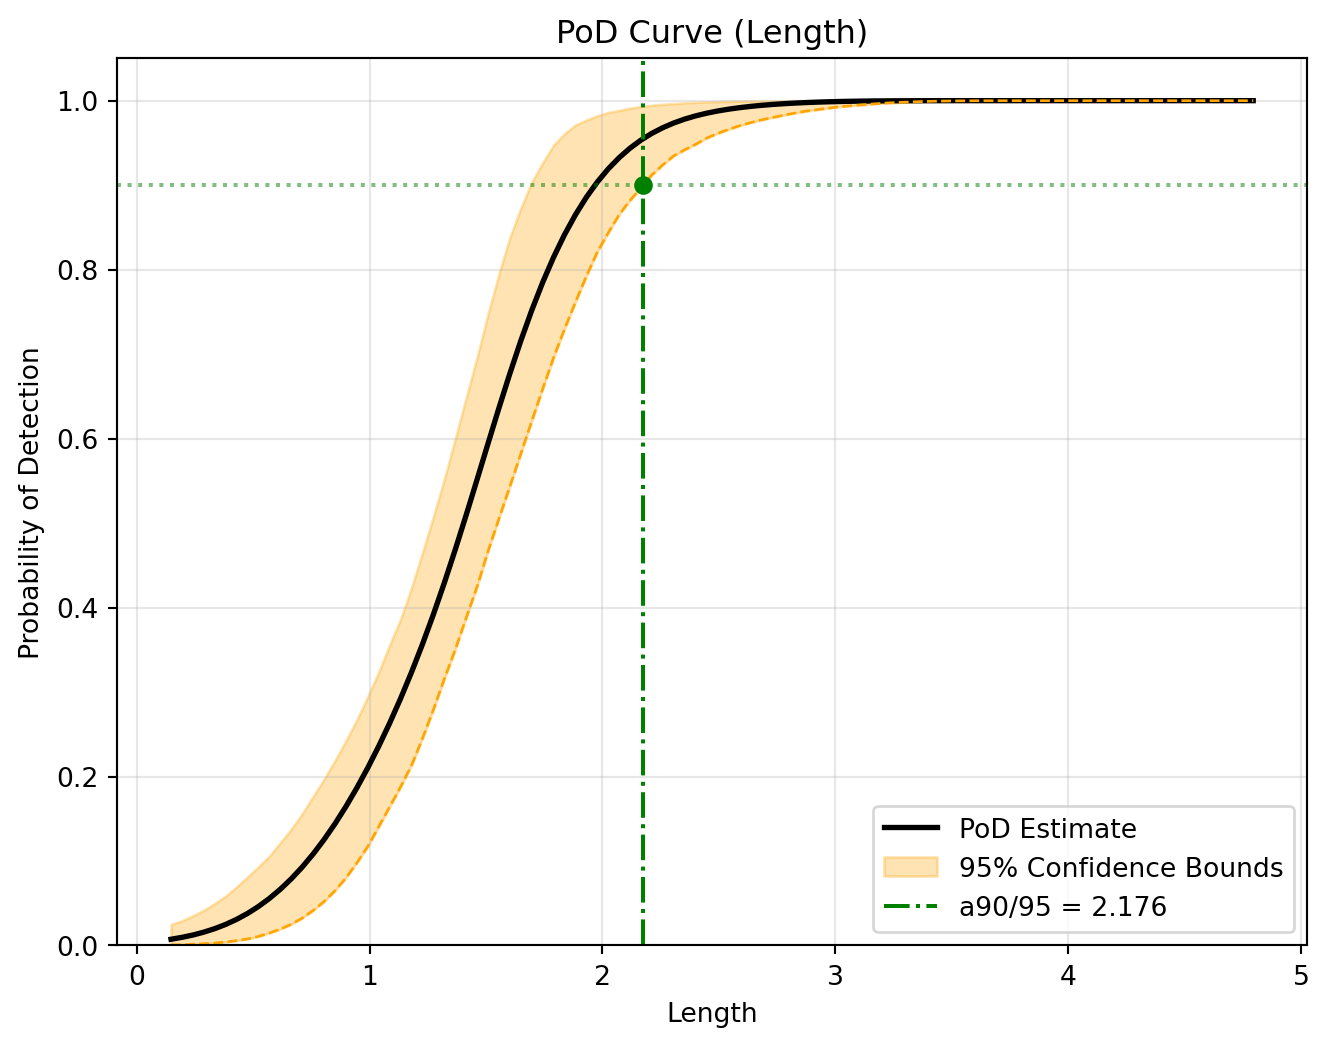
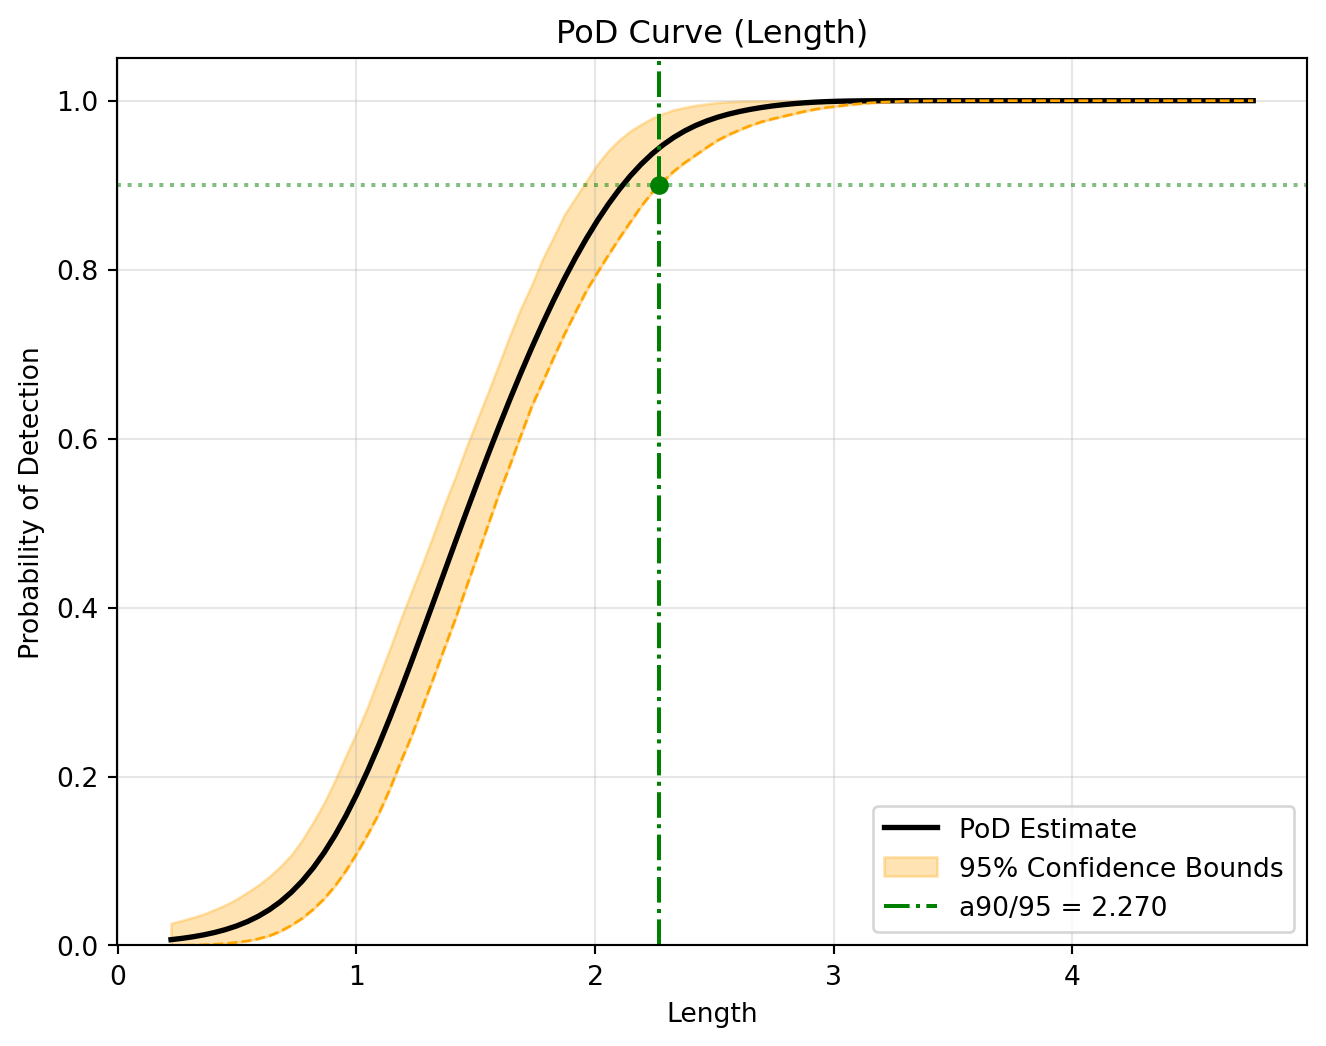
Built site for gh-pages

diff --git a/docs/qs_class.html b/docs/qs_class.html
@@ -246,7 +246,7 @@ pre > code.sourceCode > span > a:first-child::before { text-decoration: underlin
 <section id="setup-flawed-data-generation" class="level3">
 <h3 class="anchored" data-anchor-id="setup-flawed-data-generation">1. Setup &amp; “Flawed” Data Generation</h3>
 <p>First, we define our physics simulation and create a dataset with a deliberate gap (missing data between 3mm and 7mm).</p>
-<div id="446d0161" class="cell" data-execution_count="1">
+<div id="a0f2d1f6" class="cell" data-execution_count="1">
 <div class="code-copy-outer-scaffold"><div class="sourceCode cell-code" id="cb1"><pre class="sourceCode python code-with-copy"><code class="sourceCode python"><span id="cb1-1"><a href="#cb1-1" aria-hidden="true" tabindex="-1"></a><span class="im">import</span> numpy <span class="im">as</span> np</span>
 <span id="cb1-2"><a href="#cb1-2" aria-hidden="true" tabindex="-1"></a><span class="im">import</span> pandas <span class="im">as</span> pd</span>
 <span id="cb1-3"><a href="#cb1-3" aria-hidden="true" tabindex="-1"></a><span class="im">import</span> matplotlib.pyplot <span class="im">as</span> plt</span>
@@ -307,7 +307,7 @@ pre > code.sourceCode > span > a:first-child::before { text-decoration: underlin
 <section id="diagnosis-detecting-the-issue" class="level3">
 <h3 class="anchored" data-anchor-id="diagnosis-detecting-the-issue">2. Diagnosis (Detecting the Issue)</h3>
 <p>We now ask the study manager to diagnose the health of our experiment. We expect it to flag the Input Coverage test because of the gap we created.</p>
-<div id="63b5ea60" class="cell" data-execution_count="2">
+<div id="90391aa8" class="cell" data-execution_count="2">
 <div class="code-copy-outer-scaffold"><div class="sourceCode cell-code" id="cb3"><pre class="sourceCode python code-with-copy"><code class="sourceCode python"><span id="cb3-1"><a href="#cb3-1" aria-hidden="true" tabindex="-1"></a>study.diagnose()</span></code></pre></div><button title="Copy to Clipboard" class="code-copy-button"><i class="bi"></i></button></div>
 <div class="cell-output cell-output-stdout">
 <pre><code>Running validation...
@@ -335,7 +335,7 @@ Checking sample sufficiency...</code></pre>
 <td>Input Coverage</td>
 <td>Length</td>
 <td>Max Gap Ratio</td>
-<td>0.4272</td>
+<td>0.4300</td>
 <td>False</td>
 </tr>
 <tr class="even">
@@ -343,7 +343,7 @@ Checking sample sufficiency...</code></pre>
 <td>Input Coverage</td>
 <td>Angle</td>
 <td>Max Gap Ratio</td>
-<td>0.0549</td>
+<td>0.0493</td>
 <td>True</td>
 </tr>
 <tr class="odd">
@@ -351,7 +351,7 @@ Checking sample sufficiency...</code></pre>
 <td>Input Coverage</td>
 <td>Roughness</td>
 <td>Max Gap Ratio</td>
-<td>0.0719</td>
+<td>0.0824</td>
 <td>True</td>
 </tr>
 <tr class="even">
@@ -359,7 +359,7 @@ Checking sample sufficiency...</code></pre>
 <td>Model Fit (CV)</td>
 <td>Signal</td>
 <td>Mean R2 Score</td>
-<td>0.9982</td>
+<td>0.9986</td>
 <td>True</td>
 </tr>
 <tr class="odd">
@@ -367,7 +367,7 @@ Checking sample sufficiency...</code></pre>
 <td>Bootstrap Convergence</td>
 <td>Signal</td>
 <td>Relative CI Width</td>
-<td>0.0501</td>
+<td>0.0364</td>
 <td>True</td>
 </tr>
 </tbody>
@@ -380,7 +380,7 @@ Checking sample sufficiency...</code></pre>
 <section id="adaptive-refinement-the-fix" class="level3">
 <h3 class="anchored" data-anchor-id="adaptive-refinement-the-fix">3. Adaptive Refinement (The Fix)</h3>
 <p>Instead of manually guessing where to add points, we use refine(). The study manager automatically detects the gap and generates targeted samples to fill it. In this example, we run the <code>apply_physics()</code> function, but in reality, users should feed the new samples dataframe into their simulation engine to calculate the outcome variable. Users can then add those results into the SimulationStudy class using the <code>add_data()</code> method.</p>
-<div id="22dd5c30" class="cell" data-execution_count="3">
+<div id="08a6e385" class="cell" data-execution_count="3">
 <div class="code-copy-outer-scaffold"><div class="sourceCode cell-code" id="cb5"><pre class="sourceCode python code-with-copy"><code class="sourceCode python"><span id="cb5-1"><a href="#cb5-1" aria-hidden="true" tabindex="-1"></a><span class="co"># Generate active learning samples (20 points to fill the gap)</span></span>
 <span id="cb5-2"><a href="#cb5-2" aria-hidden="true" tabindex="-1"></a>new_samples <span class="op">=</span> study.refine(n_points<span class="op">=</span><span class="dv">20</span>)</span>
 <span id="cb5-3"><a href="#cb5-3" aria-hidden="true" tabindex="-1"></a></span>
@@ -397,7 +397,7 @@ Data updated. Total rows: 100</code></pre>
 </div>
 </div>
 <p>Now we verify that the issue is resolved:</p>
-<div id="7c8e4381" class="cell" data-execution_count="4">
+<div id="610f9854" class="cell" data-execution_count="4">
 <div class="code-copy-outer-scaffold"><div class="sourceCode cell-code" id="cb7"><pre class="sourceCode python code-with-copy"><code class="sourceCode python"><span id="cb7-1"><a href="#cb7-1" aria-hidden="true" tabindex="-1"></a><span class="co"># Re-run diagnostics to confirm the green light</span></span>
 <span id="cb7-2"><a href="#cb7-2" aria-hidden="true" tabindex="-1"></a>study.diagnose()</span></code></pre></div><button title="Copy to Clipboard" class="code-copy-button"><i class="bi"></i></button></div>
 <div class="cell-output cell-output-stdout">
@@ -426,7 +426,7 @@ Checking sample sufficiency...</code></pre>
 <td>Input Coverage</td>
 <td>Length</td>
 <td>Max Gap Ratio</td>
-<td>0.0353</td>
+<td>0.0385</td>
 <td>True</td>
 </tr>
 <tr class="even">
@@ -434,7 +434,7 @@ Checking sample sufficiency...</code></pre>
 <td>Input Coverage</td>
 <td>Angle</td>
 <td>Max Gap Ratio</td>
-<td>0.0549</td>
+<td>0.0440</td>
 <td>True</td>
 </tr>
 <tr class="odd">
@@ -442,7 +442,7 @@ Checking sample sufficiency...</code></pre>
 <td>Input Coverage</td>
 <td>Roughness</td>
 <td>Max Gap Ratio</td>
-<td>0.0719</td>
+<td>0.0439</td>
 <td>True</td>
 </tr>
 <tr class="even">
@@ -450,7 +450,7 @@ Checking sample sufficiency...</code></pre>
 <td>Model Fit (CV)</td>
 <td>Signal</td>
 <td>Mean R2 Score</td>
-<td>0.9970</td>
+<td>0.9980</td>
 <td>True</td>
 </tr>
 <tr class="odd">
@@ -458,7 +458,7 @@ Checking sample sufficiency...</code></pre>
 <td>Bootstrap Convergence</td>
 <td>Signal</td>
 <td>Relative CI Width</td>
-<td>0.0280</td>
+<td>0.0260</td>
 <td>True</td>
 </tr>
 </tbody>
@@ -480,12 +480,12 @@ Checking sample sufficiency...</code></pre>
 1. Selecting Mean Model (Cross-Validation)...
    -&gt; Selected Polynomial Degree: 2
 2. Fitting Variance Model (Kernel Smoothing)...
-   -&gt; Smoothing Bandwidth: 0.9832
+   -&gt; Smoothing Bandwidth: 0.9711
 3. Inferring Error Distribution (AIC)...
    -&gt; Selected Distribution: norm
 4. Computing PoD Curve...
 5. Running Bootstrap (1000 iterations)...
-   -&gt; a90/95 Reliability Index: 2.869
+   -&gt; a90/95 Reliability Index: 2.835
 --- Analysis Complete ---</code></pre>
 </div>
 </div>

diff --git a/docs/optimisation.html b/docs/optimisation.html
@@ -241,7 +241,7 @@ pre > code.sourceCode > span > a:first-child::before { text-decoration: underlin
 <section id="define-a-mock-solver" class="level3">
 <h3 class="anchored" data-anchor-id="define-a-mock-solver">1. Define a “Mock” Solver</h3>
 <p>For this tutorial, we will use a Python one-liner as our “solver”. In real life, this would be your <code>matlab</code>, <code>ansys</code>, or <code>abaqus</code> command.</p>
-<div id="2a478a30" class="cell" data-execution_count="1">
+<div id="e3842abf" class="cell" data-execution_count="1">
 <div class="code-copy-outer-scaffold"><div class="sourceCode cell-code" id="cb1"><pre class="sourceCode python code-with-copy"><code class="sourceCode python"><span id="cb1-1"><a href="#cb1-1" aria-hidden="true" tabindex="-1"></a><span class="im">import</span> sys</span>
 <span id="cb1-2"><a href="#cb1-2" aria-hidden="true" tabindex="-1"></a></span>
 <span id="cb1-3"><a href="#cb1-3" aria-hidden="true" tabindex="-1"></a><span class="co"># A simple physics model: Signal = 5 + Length * 2 + Noise</span></span>
@@ -258,7 +258,7 @@ pre > code.sourceCode > span > a:first-child::before { text-decoration: underlin
 <section id="configure-the-study" class="level3">
 <h3 class="anchored" data-anchor-id="configure-the-study">2. Configure the Study</h3>
 <p>We define our input variables and the tange we want to explore.</p>
-<div id="93c2ce9a" class="cell" data-execution_count="2">
+<div id="87fdb58d" class="cell" data-execution_count="2">
 <div class="code-copy-outer-scaffold"><div class="sourceCode cell-code" id="cb2"><pre class="sourceCode python code-with-copy"><code class="sourceCode python"><span id="cb2-1"><a href="#cb2-1" aria-hidden="true" tabindex="-1"></a><span class="im">from</span> digiqual.core <span class="im">import</span> SimulationStudy</span>
 <span id="cb2-2"><a href="#cb2-2" aria-hidden="true" tabindex="-1"></a></span>
 <span id="cb2-3"><a href="#cb2-3" aria-hidden="true" tabindex="-1"></a><span class="co"># Define inputs ranges</span></span>
@@ -277,7 +277,7 @@ pre > code.sourceCode > span > a:first-child::before { text-decoration: underlin
 <li><p>Checks diagnostics.</p></li>
 <li><p>If needed, generates 20 new points and repeats (up to 5 times).</p></li>
 </ol>
-<div id="e9836c82" class="cell" data-execution_count="3">
+<div id="ecf4bbf1" class="cell" data-execution_count="3">
 <div class="code-copy-outer-scaffold"><div class="sourceCode cell-code" id="cb3"><pre class="sourceCode python code-with-copy"><code class="sourceCode python"><span id="cb3-1"><a href="#cb3-1" aria-hidden="true" tabindex="-1"></a>study.optimise(</span>
 <span id="cb3-2"><a href="#cb3-2" aria-hidden="true" tabindex="-1"></a>    command<span class="op">=</span>SOLVER_CMD,</span>
 <span id="cb3-3"><a href="#cb3-3" aria-hidden="true" tabindex="-1"></a>    ranges<span class="op">=</span>ranges,</span>
@@ -334,7 +334,7 @@ Data updated. Total rows: 120</code></pre>
 <section id="view-results" class="level3">
 <h3 class="anchored" data-anchor-id="view-results">4. View Results</h3>
 <p>Once the loop finishes, <code>study.data</code> contains all the valid simulation results.</p>
-<div id="057ecec0" class="cell" data-execution_count="4">
+<div id="9c2ea8da" class="cell" data-execution_count="4">
 <div class="code-copy-outer-scaffold"><div class="sourceCode cell-code" id="cb5"><pre class="sourceCode python code-with-copy"><code class="sourceCode python"><span id="cb5-1"><a href="#cb5-1" aria-hidden="true" tabindex="-1"></a><span class="bu">print</span>(<span class="ss">f"Total Simulations Run: </span><span class="sc">{</span><span class="bu">len</span>(study.data)<span class="sc">}</span><span class="ss">"</span>)</span>
 <span id="cb5-2"><a href="#cb5-2" aria-hidden="true" tabindex="-1"></a>_ <span class="op">=</span> study.pod(poi_col<span class="op">=</span><span class="st">"Length"</span>, threshold<span class="op">=</span><span class="dv">8</span>)</span>
 <span id="cb5-3"><a href="#cb5-3" aria-hidden="true" tabindex="-1"></a>study.visualise()</span></code></pre></div><button title="Copy to Clipboard" class="code-copy-button"><i class="bi"></i></button></div>
@@ -344,27 +344,27 @@ Running validation...
 Validation passed. 120 valid rows ready.
 --- Starting Reliability Analysis (PoI: Length) ---
 1. Selecting Mean Model (Cross-Validation)...
-   -&gt; Selected Polynomial Degree: 2
+   -&gt; Selected Polynomial Degree: 1
 2. Fitting Variance Model (Kernel Smoothing)...
-   -&gt; Smoothing Bandwidth: 0.4647
+   -&gt; Smoothing Bandwidth: 0.4534
 3. Inferring Error Distribution (AIC)...
    -&gt; Selected Distribution: norm
 4. Computing PoD Curve...
 5. Running Bootstrap (1000 iterations)...
-   -&gt; a90/95 Reliability Index: 2.176
+   -&gt; a90/95 Reliability Index: 2.270
 --- Analysis Complete ---</code></pre>
 </div>
 <div class="cell-output cell-output-display">
 <div>
 <figure class="figure">
-<p><img src="optimisation_files/figure-html/cell-5-output-2.png" width="660" height="523" class="figure-img"></p>
+<p><img src="optimisation_files/figure-html/cell-5-output-2.png" width="659" height="523" class="figure-img"></p>
 </figure>
 </div>
 </div>
 <div class="cell-output cell-output-display">
 <div>
 <figure class="figure">
-<p><img src="optimisation_files/figure-html/cell-5-output-3.png" width="664" height="523" class="figure-img"></p>
+<p><img src="optimisation_files/figure-html/cell-5-output-3.png" width="663" height="523" class="figure-img"></p>
 </figure>
 </div>
 </div>

diff --git a/docs/install.html b/docs/install.html
@@ -224,20 +224,20 @@ pre > code.sourceCode > span > a:first-child::before { text-decoration: underlin
 <h2 class="anchored" data-anchor-id="option-1-install-via-uv-recommended">Option 1: Install via uv (Recommended)</h2>
 <p>If you are managing a project with <code>uv</code>, add <code>digiqual</code> as a dependency:</p>
 <ul>
-<li>To install the latest stable release (v0.10.0):</li>
+<li>To install the latest stable release (v0.10.1):</li>
 </ul>
-<div class="code-copy-outer-scaffold"><div class="sourceCode" id="cb1"><pre class="sourceCode bash code-with-copy"><code class="sourceCode bash"><span id="cb1-1"><a href="#cb1-1" aria-hidden="true" tabindex="-1"></a><span class="ex">uv</span> add <span class="st">"digiqual @ git+https://github.com/JGIBristol/digiqual.git@v0.10.0"</span></span></code></pre></div><button title="Copy to Clipboard" class="code-copy-button"><i class="bi"></i></button></div>
+<div class="code-copy-outer-scaffold"><div class="sourceCode" id="cb1"><pre class="sourceCode bash code-with-copy"><code class="sourceCode bash"><span id="cb1-1"><a href="#cb1-1" aria-hidden="true" tabindex="-1"></a><span class="ex">uv</span> add <span class="st">"digiqual @ git+https://github.com/JGIBristol/digiqual.git@v0.10.1"</span></span></code></pre></div><button title="Copy to Clipboard" class="code-copy-button"><i class="bi"></i></button></div>
 <ul>
 <li>To install the latest development version (main branch):</li>
 </ul>
 <div class="code-copy-outer-scaffold"><div class="sourceCode" id="cb2"><pre class="sourceCode bash code-with-copy"><code class="sourceCode bash"><span id="cb2-1"><a href="#cb2-1" aria-hidden="true" tabindex="-1"></a><span class="ex">uv</span> add <span class="st">"digiqual @ git+https://github.com/JGIBristol/digiqual.git"</span></span></code></pre></div><button title="Copy to Clipboard" class="code-copy-button"><i class="bi"></i></button></div>
 <p>If you just want to install it into a virtual environment without modifying a project file (e.g., for a quick script), use pip interface:</p>
-<div class="code-copy-outer-scaffold"><div class="sourceCode" id="cb3"><pre class="sourceCode bash code-with-copy"><code class="sourceCode bash"><span id="cb3-1"><a href="#cb3-1" aria-hidden="true" tabindex="-1"></a><span class="ex">uv</span> pip install <span class="st">"git+https://github.com/JGIBristol/digiqual.git@v0.10.0"</span></span></code></pre></div><button title="Copy to Clipboard" class="code-copy-button"><i class="bi"></i></button></div>
+<div class="code-copy-outer-scaffold"><div class="sourceCode" id="cb3"><pre class="sourceCode bash code-with-copy"><code class="sourceCode bash"><span id="cb3-1"><a href="#cb3-1" aria-hidden="true" tabindex="-1"></a><span class="ex">uv</span> pip install <span class="st">"git+https://github.com/JGIBristol/digiqual.git@v0.10.1"</span></span></code></pre></div><button title="Copy to Clipboard" class="code-copy-button"><i class="bi"></i></button></div>
 </section>
 <section id="option-2-install-via-standard-pip" class="level2">
 <h2 class="anchored" data-anchor-id="option-2-install-via-standard-pip">Option 2: Install via standard pip</h2>
-<p>To install the latest stable release (v0.10.0):</p>
-<div class="code-copy-outer-scaffold"><div class="sourceCode" id="cb4"><pre class="sourceCode bash code-with-copy"><code class="sourceCode bash"><span id="cb4-1"><a href="#cb4-1" aria-hidden="true" tabindex="-1"></a><span class="ex">pip</span> install <span class="st">"git+https://github.com/JGIBristol/digiqual.git@v0.10.0"</span></span></code></pre></div><button title="Copy to Clipboard" class="code-copy-button"><i class="bi"></i></button></div>
+<p>To install the latest stable release (v0.10.1):</p>
+<div class="code-copy-outer-scaffold"><div class="sourceCode" id="cb4"><pre class="sourceCode bash code-with-copy"><code class="sourceCode bash"><span id="cb4-1"><a href="#cb4-1" aria-hidden="true" tabindex="-1"></a><span class="ex">pip</span> install <span class="st">"git+https://github.com/JGIBristol/digiqual.git@v0.10.1"</span></span></code></pre></div><button title="Copy to Clipboard" class="code-copy-button"><i class="bi"></i></button></div>
 <p>To install the latest development version:</p>
 <div class="code-copy-outer-scaffold"><div class="sourceCode" id="cb5"><pre class="sourceCode bash code-with-copy"><code class="sourceCode bash"><span id="cb5-1"><a href="#cb5-1" aria-hidden="true" tabindex="-1"></a><span class="ex">pip</span> install <span class="st">"git+https://github.com/JGIBristol/digiqual.git"</span></span></code></pre></div><button title="Copy to Clipboard" class="code-copy-button"><i class="bi"></i></button></div>
 

diff --git a/api_reference/dq_ui.html b/api_reference/dq_ui.html
@@ -200,10 +200,7 @@ pre > code.sourceCode > span > a:first-child::before { text-decoration: underlin
     <h2 id="toc-title">On this page</h2>
    
   <ul>
-  <li><a href="#digiqual.dq_ui" id="toc-digiqual.dq_ui" class="nav-link active" data-scroll-target="#digiqual.dq_ui">dq_ui</a>
-  <ul class="collapse">
-  <li><a href="#args" id="toc-args" class="nav-link" data-scroll-target="#args">Args</a></li>
-  </ul></li>
+  <li><a href="#digiqual.dq_ui" id="toc-digiqual.dq_ui" class="nav-link active" data-scroll-target="#digiqual.dq_ui">dq_ui</a></li>
   </ul>
 <div class="toc-actions"><ul><li><a href="https://github.com/JGIBristol/digiqual/edit/main/api_reference/dq_ui.qmd" class="toc-action"><i class="bi bi-github"></i>Edit this page</a></li><li><a href="https://github.com/JGIBristol/digiqual/issues/new" class="toc-action"><i class="bi empty"></i>Report an issue</a></li></ul></div></nav>
     </div>
@@ -215,15 +212,10 @@ pre > code.sourceCode > span > a:first-child::before { text-decoration: underlin
 
 <section id="digiqual.dq_ui" class="level1">
 <h1>dq_ui</h1>
-<div class="code-copy-outer-scaffold"><div class="sourceCode" id="cb1"><pre class="sourceCode python code-with-copy"><code class="sourceCode python"><span id="cb1-1"><a href="#cb1-1" aria-hidden="true" tabindex="-1"></a>dq_ui(port<span class="op">=</span><span class="dv">8000</span>, launch_browser<span class="op">=</span><span class="va">True</span>)</span></code></pre></div><button title="Copy to Clipboard" class="code-copy-button"><i class="bi"></i></button></div>
-<p>Launch the DigiQual Graphical User Interface (GUI).</p>
-<p>This function starts a local Shiny server and opens a windowed application for experimental design, diagnostics, and PoD analysis.</p>
-<section id="args" class="level2 doc-section doc-section-args">
-<h2 class="doc-section doc-section-args anchored" data-anchor-id="args">Args</h2>
-<p>port : int, optional The port on which to run the local server, by default 8000. launch_browser : bool, optional Whether to automatically open the app in the default web browser, by default True.</p>
+<div class="code-copy-outer-scaffold"><div class="sourceCode" id="cb1"><pre class="sourceCode python code-with-copy"><code class="sourceCode python"><span id="cb1-1"><a href="#cb1-1" aria-hidden="true" tabindex="-1"></a>dq_ui()</span></code></pre></div><button title="Copy to Clipboard" class="code-copy-button"><i class="bi"></i></button></div>
+<p>User Interface for DigiQual Shiny Application</p>
 
 
-</section>
 </section>
 
 </main> <!-- /main -->

diff --git a/api_reference/index.html b/api_reference/index.html
@@ -202,7 +202,7 @@ ul.task-list li input[type="checkbox"] {
 <tbody>
 <tr class="odd">
 <td><a href="../api_reference/dq_ui.html#digiqual.dq_ui">dq_ui</a></td>
-<td>Launch the DigiQual Graphical User Interface (GUI).</td>
+<td>User Interface for DigiQual Shiny Application</td>
 </tr>
 </tbody>
 </table>
